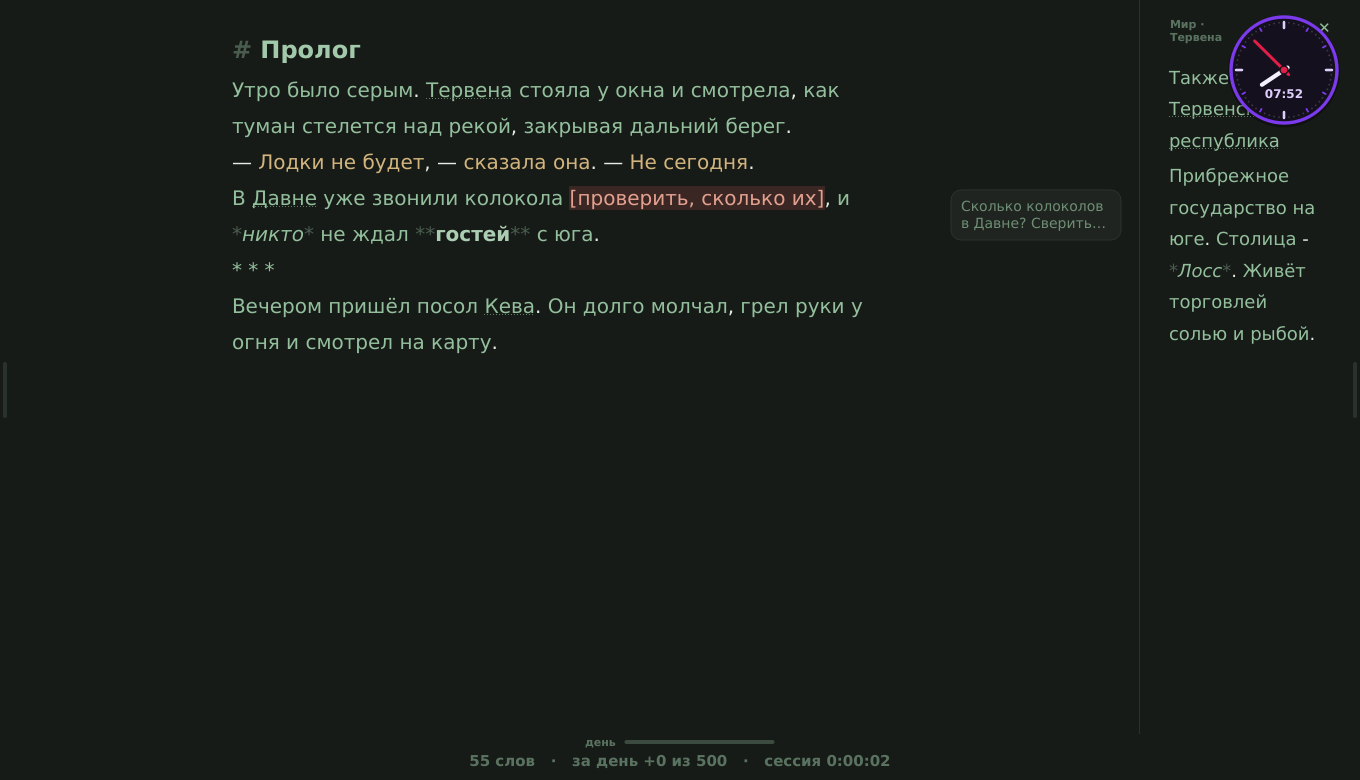
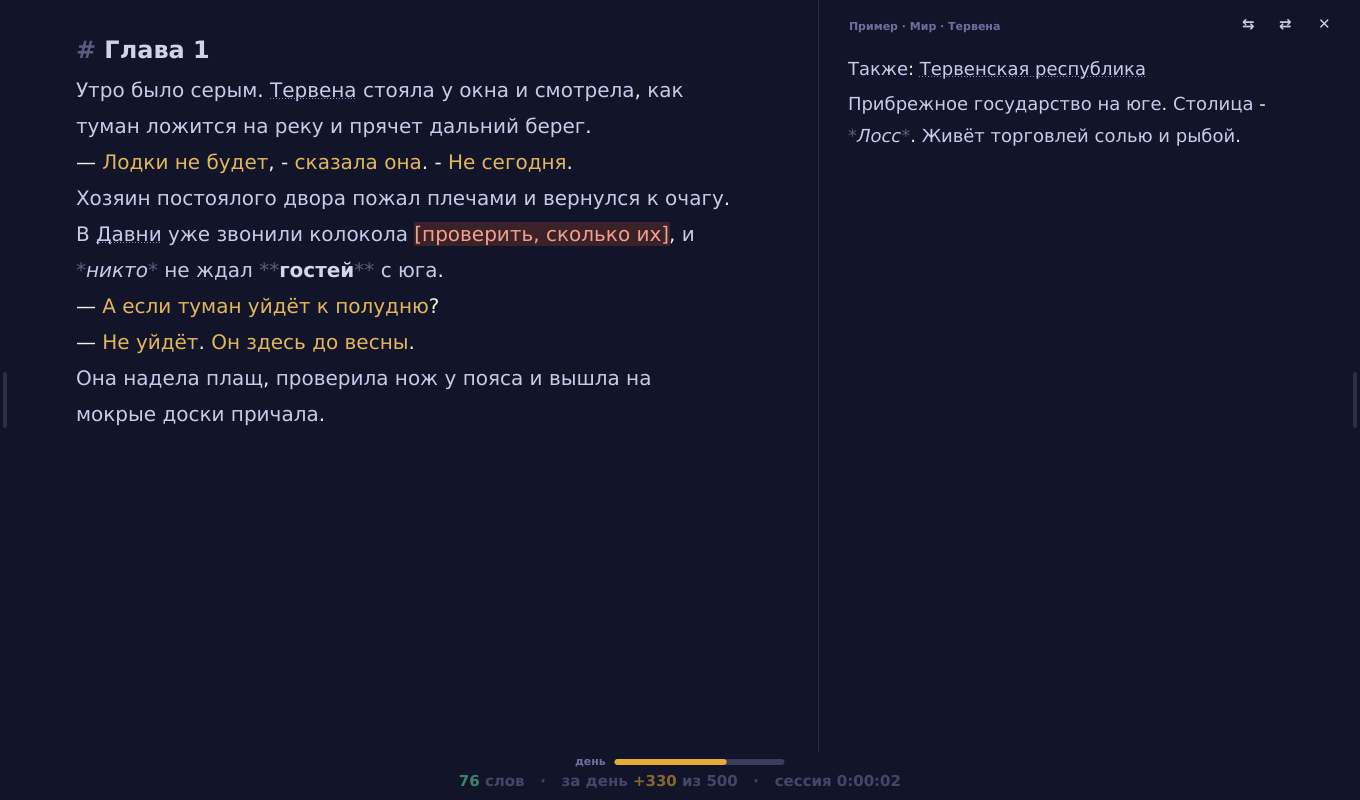
Монетка, барабан и патроны KiriFesTung, плавный спиннер, часы не закрывают панель «рядом»
- art: coin-heads/tails, drum, round-live/spent/blank (геометрия гнёзд совпадает с кодом)
- Android 0.1.2: заставка при запуске (Android 12+) и картинка «здесь пока пусто»
- спиннер: держишь - идёт за рукой, скорость броска - по последним 0,12 с, долгое плавное торможение
- часы прячутся, пока панель «рядом» открыта в их углу
- шапка README: подзаголовок ниже хвоста «g»; свежие снимки панелей и «рядом» в теме «Индиго и охра»
- docs/design/ЗАДАНИЕ-АНИМАЦИЯ.md: пробное задание на анимацию выстрела

Claude-Session: https://claude.ai/code/session_01S7PhmJQgLmFb8cBEfDmxmN

diff --git a/android/app/src/main/java/page/codeberg/kirifestung/stungkir/ui/LibraryScreens.kt b/android/app/src/main/java/page/codeberg/kirifestung/stungkir/ui/LibraryScreens.kt
@@ -1,6 +1,7 @@
 // StungKir для Android. Copyright (C) 2026 KiriFesTung, GPL-3.0-or-later
 package page.codeberg.kirifestung.stungkir.ui
 
+import androidx.compose.foundation.Image
 import androidx.compose.foundation.background
 import androidx.compose.foundation.clickable
 import androidx.compose.foundation.layout.Arrangement
@@ -44,6 +45,7 @@ import androidx.compose.ui.Alignment
 import androidx.compose.ui.Modifier
 import androidx.compose.ui.draw.clip
 import androidx.compose.ui.platform.LocalContext
+import androidx.compose.ui.res.painterResource
 import androidx.compose.ui.text.font.FontWeight
 import androidx.compose.ui.text.style.TextOverflow
 import androidx.compose.ui.unit.dp
@@ -51,6 +53,7 @@ import androidx.compose.ui.unit.sp
 import kotlinx.coroutines.Dispatchers
 import kotlinx.coroutines.delay
 import kotlinx.coroutines.withContext
+import page.codeberg.kirifestung.stungkir.R
 import page.codeberg.kirifestung.stungkir.logic.Book
 import page.codeberg.kirifestung.stungkir.logic.TextRules
 import java.io.File
@@ -155,6 +158,7 @@ fun LibraryScreen(state: AppState) {
                     }
                 }
                 if (categories.isEmpty()) {
+                    item { EmptyPicture() }
                     item {
                         Text(
                             "Здесь пока пусто. Если на компьютере уже есть книги - проверь, что Syncthing закончил синхронизацию папки. Или создай категорию кнопкой «+».",
@@ -225,6 +229,7 @@ fun CategoryScreen(state: AppState, folder: File) {
         Box(Modifier.weight(1f)) {
             LazyColumn(Modifier.fillMaxSize(), contentPadding = PaddingValues(bottom = 96.dp)) {
                 if (entries.isEmpty()) {
+                    item { EmptyPicture() }
                     item { Text("Глав пока нет. Новая - кнопкой «+».", color = c.onSurfaceVariant, modifier = Modifier.padding(20.dp)) }
                 }
                 items(entries, key = { it.file.absolutePath }) { e ->
@@ -278,4 +283,14 @@ fun CategoryScreen(state: AppState, folder: File) {
             }
         }
     }
+}
+
+/** Картинка «здесь пока пусто»: лист и ласка. */
+@Composable
+fun EmptyPicture() {
+    Image(
+        painter = painterResource(R.drawable.empty_state),
+        contentDescription = null,
+        modifier = Modifier.fillMaxWidth().padding(horizontal = 40.dp, vertical = 12.dp),
+    )
 }

diff --git a/stungkir/antistress.py b/stungkir/antistress.py
@@ -366,9 +366,12 @@ class SquishBall(QWidget):
 
 
 class Spinner(QWidget):
-    """Спиннер: раскрути мышью - крутится долго и тихо шуршит, понемногу тормозя."""
+    """Спиннер: возьми мышью и толкни - крутится долго, плавно тормозит и тихо шуршит.
+    Схватил на ходу - остановил: пока держишь, он идёт ровно за рукой."""
 
-    FRICTION = 0.35            # на сколько оборотов в секунду замедляется за секунду (плюс сопротивление)
+    FRICTION = 22.0            # градусов в секунду за секунду - сухое трение подшипника
+    DRAG = 0.018               # и сопротивление воздуха: доля скорости в секунду
+    MAX_SPEED = 3200.0         # градусов в секунду (около 530 оборотов в минуту)
 
     def __init__(self, on_whirr=None):
         super().__init__()
@@ -378,8 +381,10 @@ class Spinner(QWidget):
         self.angle = 0.0
         self.speed = 0.0                       # градусов в секунду
         self.top_rpm = 0
-        self.last = None
+        self.last = None                       # держат: (угол руки, когда)
+        self.samples = []                      # последние положения руки: (секунды, угол без скачков)
         self.clock = QElapsedTimer()
+        self.hand = QElapsedTimer()
         self.since_sound = 0.0
         self.timer = QTimer(self, interval=16)
         self.timer.timeout.connect(self._step)
@@ -392,29 +397,39 @@ class Spinner(QWidget):
         return math.degrees(math.atan2(point.y() - c.y(), point.x() - c.x()))
 
     def mousePressEvent(self, event):
-        self.last = (self._polar(event.position()), QElapsedTimer())
-        self.last[1].start()
+        self.hand.start()
+        self.last = self._polar(event.position())
+        self.samples = [(0.0, self.angle)]
+        self.speed = 0.0                                   # схватил - остановил
         self.setCursor(Qt.ClosedHandCursor)
+        self.update()
 
     def mouseMoveEvent(self, event):
         if not (event.buttons() & Qt.LeftButton) or self.last is None:
             return
-        angle, clock = self.last
         now = self._polar(event.position())
-        delta = (now - angle + 180) % 360 - 180
-        seconds = max(0.008, clock.restart() / 1000)
-        push = delta / seconds
-        self.speed = max(-4000.0, min(4000.0, self.speed * 0.6 + push * 0.6))
-        self.angle += delta
-        self.last = (now, clock)
-        self.spin()
+        delta = (now - self.last + 180) % 360 - 180
+        self.last = now
+        self.angle += delta                                # спиннер идёт ровно за рукой
+        t = self.hand.elapsed() / 1000
+        self.samples.append((t, self.samples[-1][1] + delta))
+        self.samples = [sample for sample in self.samples if t - sample[0] <= 0.12]
+        self.update()
 
     def mouseReleaseEvent(self, _event):
+        if self.last is None:
+            return
         self.last = None
         self.setCursor(Qt.OpenHandCursor)
+        t = self.hand.elapsed() / 1000
+        recent = [sample for sample in self.samples if t - sample[0] <= 0.12]
+        if len(recent) >= 2 and recent[-1][0] - recent[0][0] > 0.005 and t - recent[-1][0] < 0.08:
+            # скорость - по последней десятой секунды движения руки (резкий рывок в конце не обманет)
+            speed = (recent[-1][1] - recent[0][1]) / (recent[-1][0] - recent[0][0])
+            self.flick(speed)
 
     def flick(self, speed):
-        self.speed = speed
+        self.speed = max(-self.MAX_SPEED, min(self.MAX_SPEED, speed))
         self.spin()
 
     def spin(self):
@@ -425,14 +440,16 @@ class Spinner(QWidget):
 
     def _step(self):
         dt = min(0.05, self.clock.restart() / 1000) if self.clock.isValid() else 0.016
+        if self.last is not None:                          # держат рукой - не крутим сами
+            return
         sign = 1 if self.speed > 0 else -1
-        slow = (self.FRICTION * 360 + abs(self.speed) * 0.05) * dt
+        slow = (self.FRICTION + abs(self.speed) * self.DRAG) * dt
         self.speed = sign * max(0.0, abs(self.speed) - slow)
         self.angle = (self.angle + self.speed * dt) % 360
         self.since_sound += dt
-        if self.on_whirr and self.rpm() > 60 and self.since_sound > 0.45:
+        if self.on_whirr and self.rpm() > 40 and self.since_sound > 0.45:
             self.since_sound = 0.0
-            self.on_whirr(min(1.0, self.rpm() / 500))
+            self.on_whirr(min(1.0, self.rpm() / 450))
         if self.speed == 0.0:
             self.timer.stop()
         self.update()

diff --git a/stungkir/window.py b/stungkir/window.py
@@ -8,7 +8,7 @@ import sys
 from datetime import date, datetime
 from pathlib import Path
 from PySide6.QtCore import (
-    QElapsedTimer, QEvent, QFileSystemWatcher, QProcess, QSettings, Qt, QTimer,
+    QElapsedTimer, QEvent, QFileSystemWatcher, QPoint, QProcess, QSettings, Qt, QTimer,
 )
 from PySide6.QtGui import QColor, QCursor, QFont, QKeySequence, QShortcut, QTextBlockFormat, QTextCursor
 from PySide6.QtWidgets import (
@@ -158,6 +158,7 @@ class Notepad(FilesMixin, SearchMixin, WorldMixin, ProgressMixin, SecurityMixin,
         self.side_compare_timer = QTimer(self, singleShot=True, interval=1200)   # сравнение - после паузы
         self.side_compare_timer.timeout.connect(lambda: self.side.refresh_version(keep_place=True))
         self.split = QSplitter(Qt.Horizontal)
+        self.split.splitterMoved.connect(lambda *_a: self.place_overlays())   # часы - вслед за панелью «рядом»
         self.split.setChildrenCollapsible(False)
         self.split.setHandleWidth(6)
         # самая широкая страница (доска с колонками) иначе не даёт панели рядом стать шире узкой полоски
@@ -497,6 +498,7 @@ class Notepad(FilesMixin, SearchMixin, WorldMixin, ProgressMixin, SecurityMixin,
         for panel in (self.left, self.right):
             panel.set_tabs(self.screen_shown("tabs"))
         self.update_status()                     # и полоски, и части строки внизу
+        self.place_overlays()                    # часы прячутся, если их угол занят панелью «рядом»
         self.place_overlays()                    # часы в нижнем углу встают над строкой или ниже
 
     def set_goal_style(self, name):
@@ -512,6 +514,15 @@ class Notepad(FilesMixin, SearchMixin, WorldMixin, ProgressMixin, SecurityMixin,
         if hasattr(self, "corner_clock"):
             corner = self.place("clock")
             x = 18 if corner.endswith("l") else central.width() - self.corner_clock.width() - 18
+            side = getattr(self, "side", None)
+            covered = False
+            if side is not None and side.isVisible():
+                # панель «рядом» в том же углу: часы закрыли бы и её, и край текста - прячем, пока она открыта
+                left = side.mapTo(central, QPoint(0, 0)).x()
+                side_on_left = left < central.width() / 2
+                covered = corner.endswith("l") == side_on_left
+            zen = getattr(self, "zen", False)
+            self.corner_clock.setVisible(not covered and not zen and self.screen_shown("clock"))
             y = 12
             if corner.startswith("b"):
                 y = central.height() - self.corner_clock.height() - 12

diff --git a/stungkir/tests/test_toys.py b/stungkir/tests/test_toys.py
@@ -310,6 +310,38 @@ class AntistressTest(WindowCase):
         skip.finish()
         dialog.close()
 
+    def test_spinner_follows_hand_and_spins_long(self):
+        import math
+        from stungkir.antistress import StressDialog
+        dialog = StressDialog(None)
+        dialog.resize(760, 520)
+        dialog.show()
+        dialog._show_page(2)
+        spinner = dialog.spinner
+        wait(0.05)
+        c = QPoint(spinner.width() // 2, spinner.height() // 2)
+        r = min(spinner.width(), spinner.height()) // 3
+
+        def at(deg):
+            a = math.radians(deg)
+            return c + QPoint(int(r * math.cos(a)), int(r * math.sin(a)))
+        QTest.mousePress(spinner, Qt.LeftButton, Qt.NoModifier, at(0))
+        start = spinner.angle
+        for k in range(1, 9):                                    # тянем по кругу по часовой
+            QTest.mouseMove(spinner, at(k * 20))
+            wait(0.015)
+        self.assertAlmostEqual((spinner.angle - start) % 360, 160, delta=6)   # шёл ровно за рукой
+        self.assertEqual(spinner.speed, 0.0)                     # пока держат - сам не крутится
+        QTest.mouseRelease(spinner, Qt.LeftButton, Qt.NoModifier, at(160))
+        self.assertGreater(spinner.speed, 300)                   # толкнули по часовой
+        spinner.flick(1800)
+        wait(1.0)
+        self.assertGreater(spinner.speed, 1300)                  # тормозит плавно, а не сразу
+        QTest.mousePress(spinner, Qt.LeftButton, Qt.NoModifier, at(0))
+        self.assertEqual(spinner.speed, 0.0)                     # схватил - остановил
+        QTest.mouseRelease(spinner, Qt.LeftButton, Qt.NoModifier, at(0))
+        dialog.close()
+
     def test_f12_opens_it(self):
         w = self.window()
         seen = []

diff --git a/stungkir/tests/test_layout.py b/stungkir/tests/test_layout.py
@@ -155,6 +155,18 @@ class SidePaneTest(WindowCase):
         self.assertEqual(self.w.path, self.second)
         self.assertEqual(self.w.side.path, self.first)
 
+    def test_clock_does_not_cover_side_pane(self):
+        w = self.window()
+        w.resize(1200, 700)
+        w.show()
+        wait(0.1)
+        self.assertTrue(w.corner_clock.isVisible())              # часы в правом углу
+        w.open_beside(self.second)                                 # панель «рядом» - справа
+        wait(0.1)
+        self.assertFalse(w.corner_clock.isVisible())
+        w.close_side()
+        self.assertTrue(w.corner_clock.isVisible())
+
     def test_side_follows_save_and_rename(self):
         self.w.open_beside(self.first)
         self.w.editor.setPlainText("Новый текст.")

diff --git a/stungkir/world.py b/stungkir/world.py
@@ -222,6 +222,7 @@ class WorldMixin:
             self.split.setSizes([left, right])
         self.settings.setValue("side_file", str(path))
         self.settings.setValue("side_open", "true")
+        self.place_overlays()
 
     def compare_with_version(self, index=None):
         """«Сравнить с версией»: прошлое сохранение главы - в панели рядом с текстом (по умолчанию
@@ -278,6 +279,7 @@ class WorldMixin:
             self.settings.setValue("side_sizes", self.split.sizes())
             self.side.hide()
         self.settings.setValue("side_open", "false")
+        self.place_overlays()
         self.editor.setFocus()
 
     def toggle_side(self):

diff --git a/docs/design/ЗАДАНИЕ-АНИМАЦИЯ.md b/docs/design/ЗАДАНИЕ-АНИМАЦИЯ.md
@@ -1,0 +1,30 @@
+# StungKir - пробное задание на анимацию: выстрел в «Рулетке»
+
+Это пробное задание для дизайнера (или Claude Design) от разработчика StungKir. Цель - понять, какие анимации удобно делать дизайном, а какие кодом. Готовое KiriFesTung присылает разработчику в zip.
+
+## Где это в программе
+«Рандомайзеры» → «Рулетка»: барабан револьвера (вид строго сверху, `art/drum.png`, 6 гнёзд), патроны (`art/round-*.png`). Нажимаешь «Крутить» - барабан вращается и останавливается; щелчок - либо пусто («щёлк»), либо выстрел («бах») и писательский вызов на экране. Вращение и патроны программа рисует сама. Не хватает самого **выстрела** - сейчас там простая вспышка.
+
+## Стиль
+Как у готовых картинок: палитра «Индиго и охра» (фон `#121429`, индиго `#2a2696`, охра `#e8a93a`), объёмно и мягко, без крови, без реалистичного оружия в кадре - это игра для писателя, а не тир. Выстрел - скорее мультяшный «бах»: вспышка охрой, кольцо ударной волны, клубы дыма индиго-серые, пара искр.
+
+## Вариант А - кадры (если редактор умеет)
+- 16 кадров, 512×512, PNG с прозрачным фоном, 30 кадров в секунду (вся анимация - около полсекунды).
+- Имена: `bang_00.png` … `bang_15.png`.
+- Центр вспышки - строго в центре кадра (его ставят над гнездом барабана).
+- Кадр 00 - самое начало (маленькая яркая точка), последний - почти растаявший дым. Анимация не зацикливается.
+- Ничего не должно касаться краёв кадра (иначе на экране будет видна обрезка): всё внутри круга диаметром 480.
+
+## Вариант Б - детали (если кадры сделать трудно)
+Отдельные PNG с прозрачным фоном, анимацию разработчик сделает кодом (увеличение, поворот, растворение):
+- `flash.png` 512×512 - вспышка-звезда охрой, по центру.
+- `ring.png` 512×512 - тонкое кольцо ударной волны.
+- `smoke-1.png` … `smoke-3.png` 256×256 - три разных клуба дыма.
+- `spark.png` 64×64 - искра.
+
+## Что ещё сделать, если понравится
+- Холостой («щёлк»): маленький клуб пыли из гнезда, 8 кадров 256×256 или одна картинка `dust.png`.
+- Монетка встала на ребро: блеск по ребру, 12 кадров 512×512.
+
+## Как прислать
+Один zip, внутри папка `anim/bang/` с кадрами (вариант А) или `anim/parts/` с деталями (вариант Б). Можно и то и другое - выберем, что лучше смотрится.

diff --git a/CHANGELOG.md b/CHANGELOG.md
@@ -13,6 +13,8 @@
 - Игрушки и стол для бросков - в цветах темы: сукно, пульт, спиннер, небо над озером.
 - Своя картинка под текстом - под всем окном, до самого края; рисуется в настоящих точках экрана (не мылится), а слишком маленькая картинка - с предупреждением, какое нужно разрешение.
 - Как связать телефон с Windows - в docs/ТЕЛЕФОН.md.
+- Новые картинки KiriFesTung: монетка (ворон и ласка), барабан и патроны рулетки; на телефоне - заставка при запуске и картинка «здесь пока пусто».
+- Спиннер: держишь - идёт ровно за рукой, толкнул - крутится долго и плавно тормозит; схватил на ходу - остановил.
 - Приложение для телефона (Android, первая версия 0.1): та же папка через Syncthing, категории и главы, подсветка, кнопки над клавиатурой, автосохранение, версии, конфликты синхронизации, слова за день и общая с компьютером серия. Подробно - docs/ТЕЛЕФОН.md.
 - Слова, написанные на телефоне, складываются с компьютерными: «сегодня» и серия общие.
 - Сравнение с прошлой версией прямо рядом с текстом (Ctrl+Shift+V): старая версия в панели слева, ушедшее подсвечено, сравнение обновляется, пока пишешь; ◀ ▶ листают версии.
